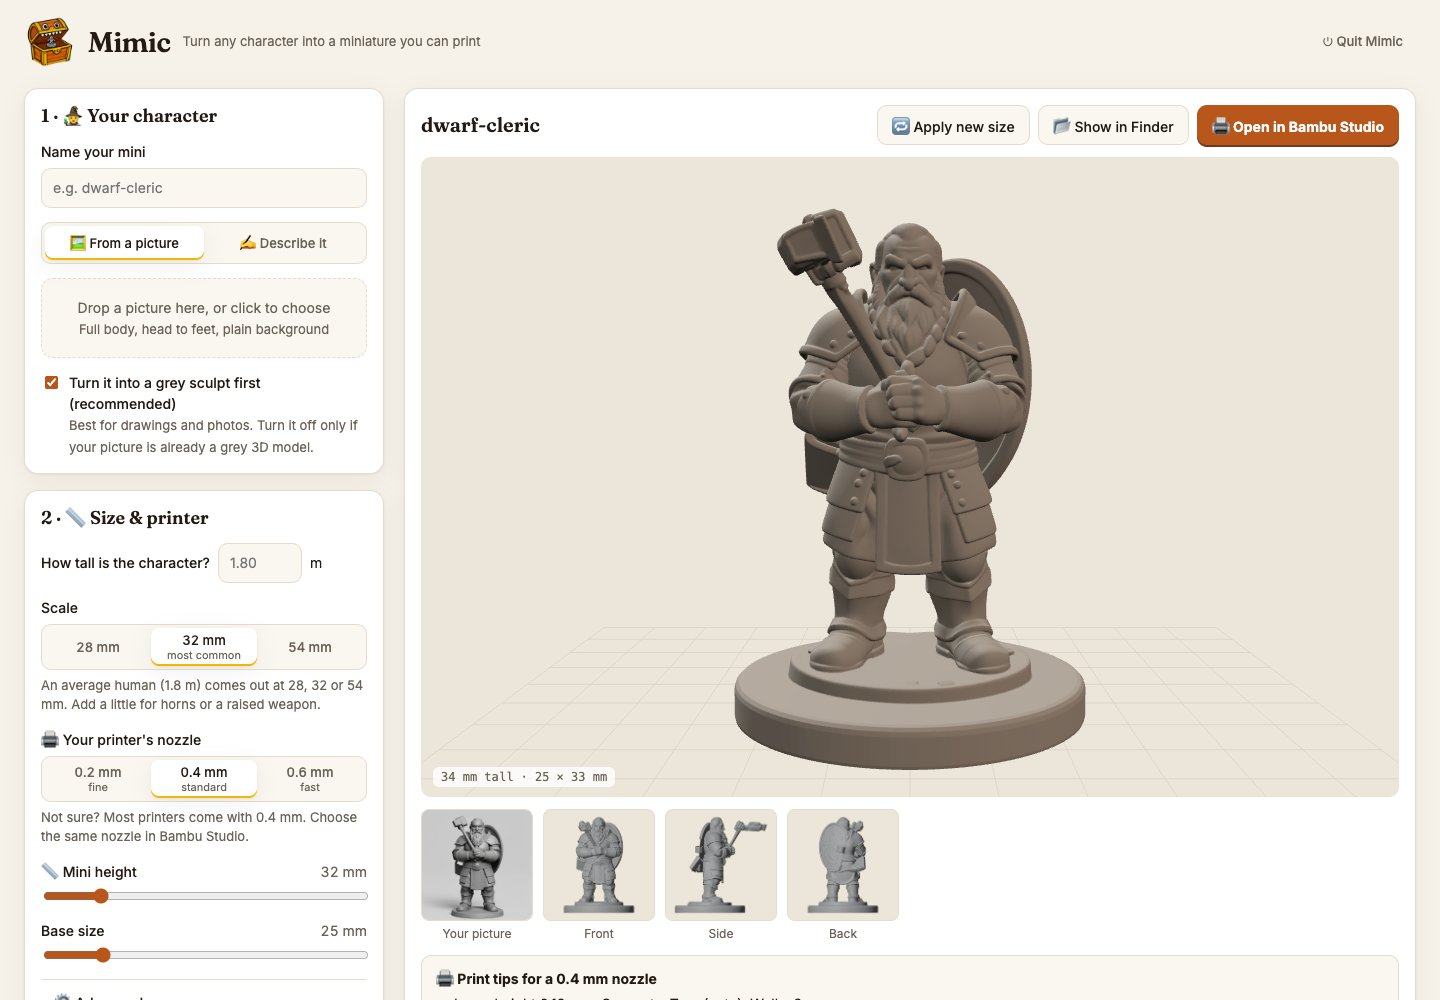
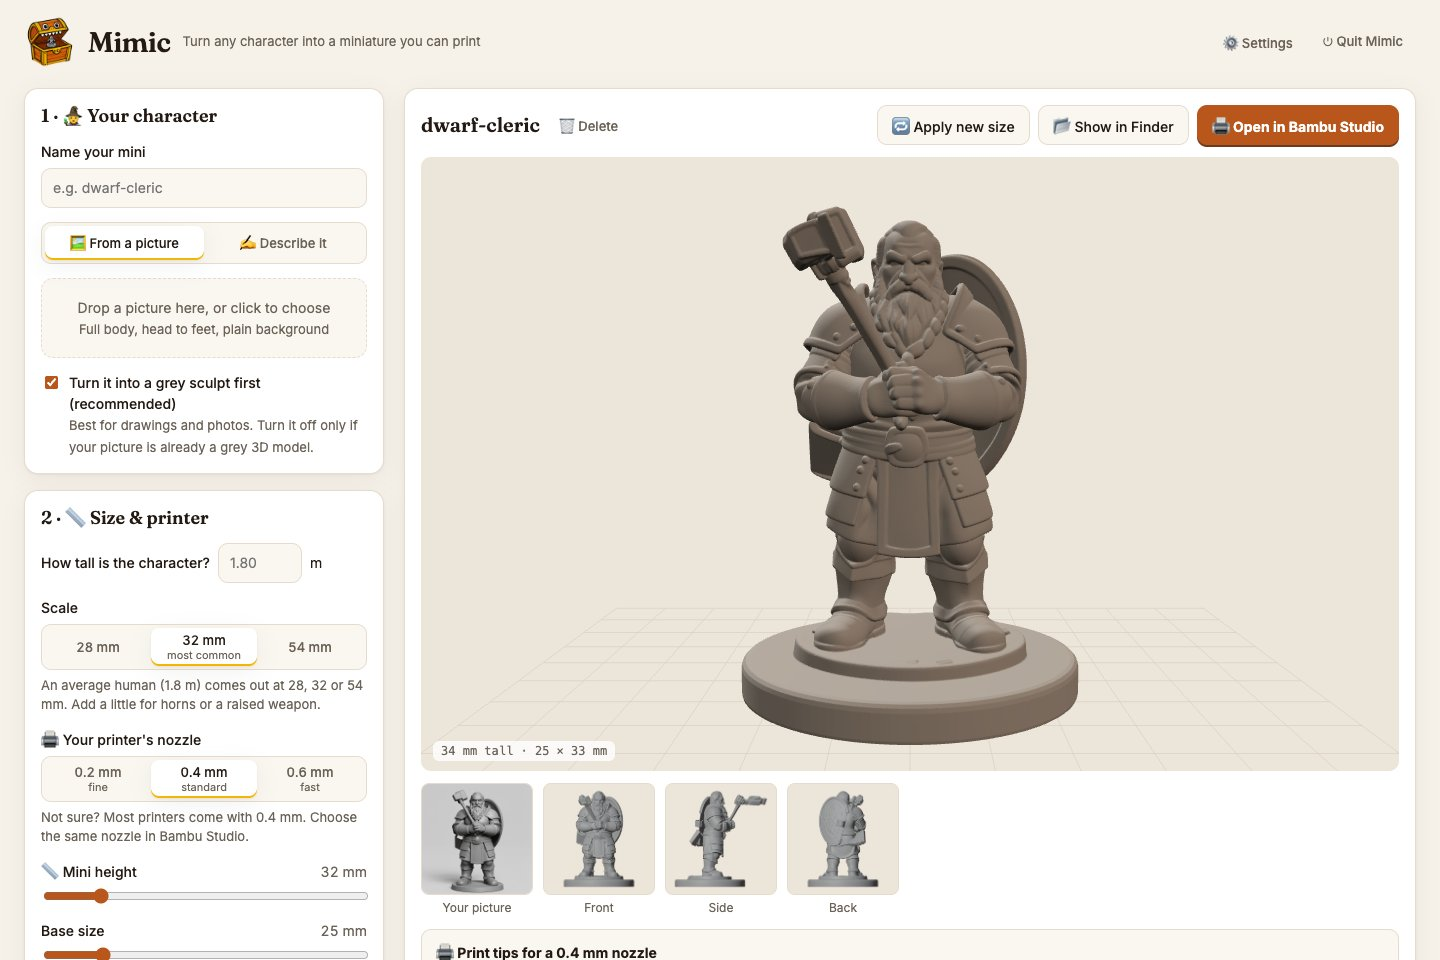
README and page: drop what doesn't help the reader
- Remove the old-vs-new cleanup image: development history, not how it
  works. One sentence in print prep now says why thickening follows the
  nozzle.
- Get started said 'the last two clicks' in Draw Things; the checklist
  has three steps.
- Retake the page screenshot in its ready state, with Settings and Delete.
- Drop 'pictures you make are yours to print', a legal claim that isn't
  true for other people's art; keep the pointer to the licences.
- gen_views.py is described as experimental and unused, not as a to-do.
- The page no longer names Bambu Studio where any slicer applies (nozzle
  hint, fragile-parts warning, the Open button before settings load).

diff --git a/ui/index.html b/ui/index.html
@@ -245,7 +245,7 @@ dialog::backdrop { background:rgba(0,0,0,.55); }
           <button type="button" role="radio" data-v="0.4" aria-checked="true">0.4 mm<small>standard</small></button>
           <button type="button" role="radio" data-v="0.6" aria-checked="false">0.6 mm<small>fast</small></button>
         </div>
-        <div class="hint" style="margin-top:6px">Not sure? Most printers come with 0.4 mm. Choose the same nozzle in Bambu Studio.</div>
+        <div class="hint" style="margin-top:6px">Not sure? Most printers come with 0.4 mm. Choose the same nozzle in your slicer.</div>
       </div>
       <div class="slider"><label for="height">📏 Mini height</label><output id="heightV"></output>
         <input id="height" type="range" min="15" max="120" step="1" value="32"></div>
@@ -286,7 +286,7 @@ dialog::backdrop { background:rgba(0,0,0,.55); }
         <div class="actions">
           <button class="btn" id="reprep" type="button" disabled title="Remakes the print file with your size and nozzle settings. About 30 seconds. The character itself doesn't change.">🔁 Apply new size</button>
           <button class="btn" id="reveal" type="button" disabled>📂 Show in Finder</button>
-          <button class="btn primary" id="open" type="button" disabled>🖨 Open in Bambu Studio</button>
+          <button class="btn primary" id="open" type="button" disabled>🖨 Open in your slicer</button>
         </div>
       </div>
       <div id="viewerWrap">
@@ -542,7 +542,7 @@ async function poll() {
   } else {
     $("jobTitle").textContent = `🎉 ${s.name} is ready!`;
     $("jobNote").textContent = "";
-    if (log.includes("WARNING")) say("⚠ Your mini is ready, but some thin parts may be fragile. Check it in Bambu Studio before printing.", "warn");
+    if (log.includes("WARNING")) say("⚠ Your mini is ready, but some thin parts may be fragile. Check it in your slicer before printing.", "warn");
   }
   if (wasRunning) { wasRunning = false; await loadRuns(); if (s.exit === 0) { select(s.name, true); $("name").value = ""; $("open").focus(); } }
 }

diff --git a/README.md b/README.md
@@ -23,8 +23,8 @@ Everything runs on your own Mac: no accounts, no uploads, no subscriptions.</p>
      *Install Mimic.command*.
    - The installer asks once before it starts, and may ask for your Mac password.
 3. **Wait 20–60 minutes.** Most of that is downloading about 10 GB of AI models.
-4. **Mimic opens by itself.** A short checklist walks you through the last two clicks in
-   *Draw Things*, the free app Mimic uses to draw and redraw pictures.
+4. **Mimic opens by itself.** A short checklist shows how to finish setting up *Draw Things*,
+   the free app Mimic uses to draw and redraw pictures.
 
 After that, open **Mimic** from your Applications folder whenever you want to make a mini.
 
@@ -71,8 +71,7 @@ tall character) faces, small pets and props come out much better on a home print
 - **Small companions and props**, like a bird on a shoulder, can come out as blobs. The AI
   sees them at only a few pixels and has to guess their far side.
 - **Chunky, heroic-looking characters work best.** Realistic proportions make faces tiny.
-- Pictures you make are yours to print. If you want to sell prints, check the licences at the
-  bottom first.
+- Planning to sell prints? Check the licences at the bottom first.
 
 ---
 
@@ -102,10 +101,10 @@ flowchart TD
 3. **Print prep** (`pipeline/mini_prep.py`, Blender):
    - scales the figure and centres it on the solid cross-sections of its lower body;
    - fuses it to a round base and rebuilds it as one watertight solid;
-   - thickens thin parts by 0.4 × the nozzle, drops floating bits and slices the bottom flat;
+   - thickens thin parts by 0.4 × the nozzle, drops floating bits and slices the bottom flat.
+     More thickening keeps swords and capes whole but softens faces, which is why it follows
+     the nozzle rather than being fixed;
    - exports the STL plus front, side and back renders.
-
-![The dwarf's face with too much thickening (soft, melted) next to the current setting (crisp braids and brows)](docs/images/cleanup.jpg)
 
 ### From a terminal
 
@@ -126,7 +125,7 @@ Add `?run=<name>` to the page address to open a specific mini.
 | `Install Mimic.command` / `setup.sh` | the installer (`setup.sh --yes`, `--build-from-source`) |
 | `Mimic.command` | starts the app; the Mimic app in Applications runs it |
 | `make_mini.sh` | the pipeline: image → mesh → print prep |
-| `pipeline/` | `mini_prep.py` (Blender), `drawthings.py`, `gen_views.py` (multiview input, not wired in yet), `render_zoom.py` |
+| `pipeline/` | `mini_prep.py` (Blender), `drawthings.py`, `gen_views.py` (experimental, unused: side and back views for Pixal3D multiview), `render_zoom.py` |
 | `ui/` | the web app: `serve.py` (standard library only), `index.html`, logo and icon |
 | `tools/package_pixal3d.sh` | builds the relocatable Pixal3D download the installer uses |
 | `tests/` | `test_prep.sh` (print prep on a synthetic figure), `test_serve.py` (input checks), `test_checks.py` (Settings checks, both ways) |
